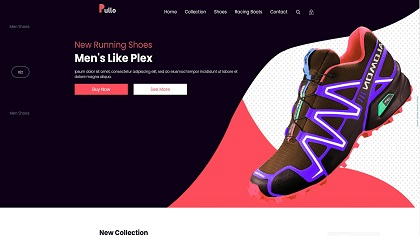
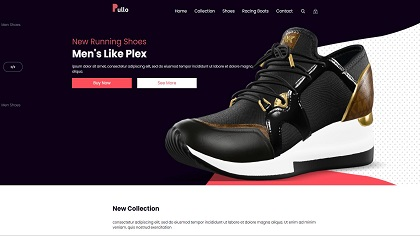
refactor 3d shoes for 3d sites

diff --git a/3d-sites.html b/3d-sites.html
@@ -92,16 +92,15 @@ https://templatemo.com/tm-556-catalog-z
             </div>
             <div class="col-xl-3 col-lg-4 col-md-6 col-sm-6 col-12 mb-5">
                 <figure class="tm-video-item">
-                    <img src="img/img-02.jpg" alt="Image" class="img-fluid">
+                    <img src="img/img-21.jpg" alt="Image" class="img-fluid">
                     <figcaption class="d-flex align-items-center justify-content-center">
-                        <h2>Phygital</h2>
-                        <div class="sketchfab-embed-wrapper"> <iframe title="Phygital_ Future_games_v2" frameborder="0" allowfullscreen mozallowfullscreen="true" webkitallowfullscreen="true" allow="autoplay; fullscreen; xr-spatial-tracking" xr-spatial-tracking execution-while-out-of-viewport execution-while-not-rendered web-share width="1000" height="800" src="https://sketchfab.com/models/a2bc6e6232d644b2a3d50c07a4ffc7ea/embed?autospin=1&autostart=1"> </iframe> <p style="font-size: 13px; font-weight: normal; margin: 5px; color: #4A4A4A;"> <a href="https://sketchfab.com/3d-models/phygital--future-games-v2-a2bc6e6232d644b2a3d50c07a4ffc7ea?utm_medium=embed&utm_campaign=share-popup&utm_content=a2bc6e6232d644b2a3d50c07a4ffc7ea" target="_blank" rel="nofollow" style="font-weight: bold; color: #fde411;"> Phygital_ Future_games_v2 </a> by <a href="https://sketchfab.com/eugenezakhno?utm_medium=embed&utm_campaign=share-popup&utm_content=a2bc6e6232d644b2a3d50c07a4ffc7ea" target="_blank" rel="nofollow" style="font-weight: bold; color: #1CAAD9;"> eugenezakhno </a> on <a href="https://sketchfab.com?utm_medium=embed&utm_campaign=share-popup&utm_content=a2bc6e6232d644b2a3d50c07a4ffc7ea" target="_blank" rel="nofollow" style="font-weight: bold; color: #1CAAD9;">Sketchfab</a></p></div>
+                        <h2>shoes</h2>
+                        <a href="https://eugenezakhno.github.io/pullo">View more</a>
                     </figcaption>
                 </figure>
                 <div class="d-flex justify-content-between tm-text-gray">
-                    <span>15 янв 2024</span>
-                    <a href="https://eugenezakhno.github.io/phygital">3D-Логотипы.  (См. детальнее)</a>
-                    <span>14,502</span>
+                    <span>15 апр 2024</span>
+                    <span>1,502 просмотра</span>
                 </div>
             </div>
             <div class="col-xl-3 col-lg-4 col-md-6 col-sm-6 col-12 mb-5">
